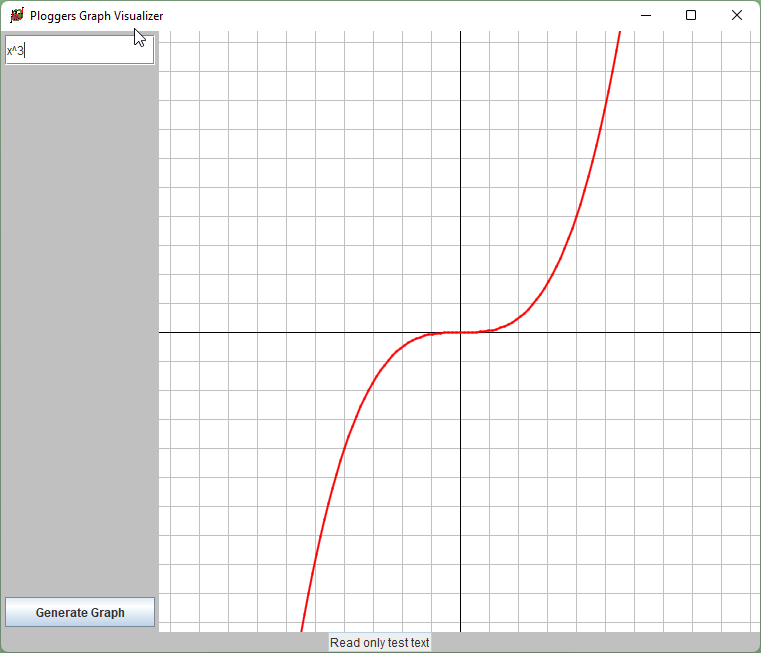
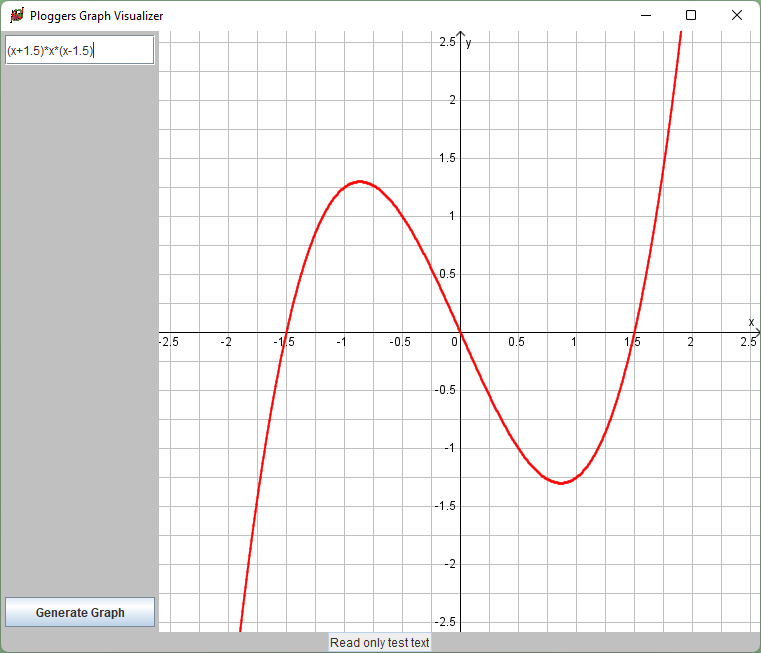
implemented axis labels

diff --git a/src/de/aop/plotter/Plot.java b/src/de/aop/plotter/Plot.java
@@ -3,6 +3,7 @@ package de.aop.plotter;
 import java.awt.BasicStroke;
 import java.awt.Color;
 import java.awt.Dimension;
+import java.awt.FontMetrics;
 import java.awt.Graphics;
 import java.awt.Graphics2D;
 import java.awt.Point;
@@ -17,19 +18,22 @@ import de.aop.parser.Parser;
 
 public class Plot extends JPanel
 {
-	private static final int X_SCALE_MARKERS = 10; // Amount of markers going from middle to top and bottom each
-	private static final int Y_SCALE_MARKERS = 10; // Amount of markers going from middle to left and right each
+	private static final int X_SCALE_MARKERS_MIN = 10; // Minimum amount of markers going from middle to top and bottom each
+	private static final int Y_SCALE_MARKERS_MIN = 10; // Minimum amount of markers going from middle to left and right each
+	private int xScaleMarkers = 0; // actual number of scale markers
+	private int yScaleMarkers = 0; // actual number of scale markers
 	private Parser data;
 	private int markerGap;
 	private Coordinate middle;
 
-	double scale = 2; // probably only visual :D
+	double scale = 4; // probably only visual :D
 	
 	/**
 	 * 
 	 */
 	public Plot()
 	{
+		getLabel(2);
 		// ToDo, Roberts dateityp entgegenehmen, oder in anderer Klasse die wichtigen Punkte berechnen
 		// Klasse dafür wird vermutlich Graph, in der sollen dann die Wichtigen Punkte und der Parse abgelegt werden.
 	}	
@@ -47,6 +51,8 @@ public class Plot extends JPanel
 		Graphics2D g2 = (Graphics2D)g;
 	    g2.setRenderingHint(RenderingHints.KEY_ANTIALIASING, RenderingHints.VALUE_ANTIALIAS_ON);
 	    
+	    
+	    
 	    // Sets x and yMiddle to usable ints
 	    calcCanvasMiddle();
 	    
@@ -57,16 +63,19 @@ public class Plot extends JPanel
 	    drawSecondaryLines(g2);
 	    
 	    // Draw x- and y-axis 
-	    g2.setColor(Color.black);
-	    g2.drawLine(middle.xAsInt(), 0, middle.xAsInt(), getHeight());
-	    g2.drawLine(0, middle.yAsInt(), getWidth(), middle.yAsInt());
+	    drawAxis(g2);
+	    
+	    // Draw numbers on x- and y-axis
+	    drawPlotNumbering(g2);
+	    
 	    
 	    if (data != null) {
 	    	drawFunction(g2);
 	    }
 	    
-	    // TODO Anhand der Extrempunkte usw. feststellen welcher Teil des Graphen überhaupt interessant ist.
 	    
+	    // TODO Anhand der Extrempunkte usw. feststellen welcher Teil des Graphen überhaupt interessant ist.
+	    //System.out.println("Result: "+getLabel(-1.4123));
 	}
     
 	
@@ -119,8 +128,8 @@ public class Plot extends JPanel
 		int yGap = 0;
 
 		// Calculate biggest possible gap between each line
-		xGap = calculateGap(xAvailableSpace, X_SCALE_MARKERS);
-		yGap = calculateGap(yAvailableSpace, Y_SCALE_MARKERS);
+		xGap = calculateGap(xAvailableSpace, X_SCALE_MARKERS_MIN);
+		yGap = calculateGap(yAvailableSpace, Y_SCALE_MARKERS_MIN);
 		
 		this.markerGap = Math.min(xGap, yGap);
 	}
@@ -158,6 +167,7 @@ public class Plot extends JPanel
 		{
 			g.drawLine(0, currentPosition+this.markerGap, getWidth(), currentPosition+this.markerGap);
 			currentPosition += this.markerGap;
+			this.yScaleMarkers++;
 			// DEBUG System.out.println("CurrentPosition y->MAX: "+currentPosition+", "+this.markerGap);			
 		}
 		
@@ -179,6 +189,7 @@ public class Plot extends JPanel
 		{
 			g.drawLine(currentPosition+this.markerGap, 0, currentPosition+this.markerGap, getHeight());
 			currentPosition += this.markerGap;
+			this.xScaleMarkers++;
 			// DEBUG System.out.println("CurrentPosition x->MAX: "+currentPosition+", "+this.markerGap);			
 		}
 		
@@ -191,6 +202,29 @@ public class Plot extends JPanel
 			// DEBUG System.out.println("CurrentPosition x->0: "+currentPosition+", "+this.markerGap);			
 		}
 		
+	}
+	
+	/**
+	 * Adds axis labels to Graph
+	 * @param graphics object to draw on
+	 */
+	private void drawAxis(Graphics2D g)
+	{
+		FontMetrics metrics = g.getFontMetrics();
+		
+		// Just drawing black lines
+		g.setColor(Color.black);
+	    g.drawLine(middle.xAsInt(), 0, middle.xAsInt(), getHeight());
+	    g.drawLine(0, middle.yAsInt(), getWidth(), middle.yAsInt());
+	    
+	    // Draw Arrows and x,y
+	    g.drawString("x", getWidth()-metrics.stringWidth("x")-6, middle.yAsInt()-6);
+	    g.drawLine(getWidth(), middle.yAsInt(), getWidth()-4, middle.yAsInt()-4);
+	    g.drawLine(getWidth(), middle.yAsInt(), getWidth()-4, middle.yAsInt()+4);
+	    
+	    g.drawString("y", middle.xAsInt()+6, metrics.getHeight());
+	    g.drawLine(middle.xAsInt(), 0, middle.xAsInt()+4, 4);
+	    g.drawLine(middle.xAsInt(), 0, middle.xAsInt()-4, 4);
 	}
 	
 	
@@ -211,8 +245,8 @@ public class Plot extends JPanel
 	{
 		Coordinate result = new Coordinate(0,0);
 		
-		result.x = (x - this.middle.x) / this.markerGap;
-		result.y = (y - this.middle.y) / this.markerGap * (-1);
+		result.x = (x - this.middle.x) / (this.markerGap * scale);
+		result.y = (y - this.middle.y) / (this.markerGap * scale) * (-1);
 		
 		return result;
 	}
@@ -254,6 +288,107 @@ public class Plot extends JPanel
 			xPixel++;
 		}
 	}
+	
+	/**
+	 * Draws numbers on x- and y-axis for scale
+	 * More details about the mesurement: https://docs.oracle.com/javase/tutorial/2d/text/measuringtext.html
+	 * @param the plot graphics object
+	 */
+	private void drawPlotNumbering(Graphics2D g)
+	{
+		// object to get info about strings, other variables
+		FontMetrics metrics = g.getFontMetrics();
+		String label = "";
+		int offset = -2;
+		int offset2 = 0; // used for all but '0'
+		int xPos = 0;
+		int yPos = 0;
+		
+		// place 0 at origin
+		label = "0";
+		xPos = (middle.xAsInt()-metrics.stringWidth("0"));
+		yPos = (middle.yAsInt()+metrics.getHeight());
+		g.drawString(label, xPos+offset, yPos+offset);
+		
+		// draw the rest of the numbers
+		// x-axis
+		for (int i=2; i < xScaleMarkers/2 - 1; i+=2)
+		{
+			// Positive numbers
+			xPos = (i * this.markerGap) + middle.xAsInt();
+			label = getLabel(pixelToFunction(xPos,0).x);
+			offset2 = -(metrics.stringWidth(label)/2);
+			g.drawString(label, xPos+offset+offset2, yPos+offset);
+			
+			// Negative numbers
+			xPos = -(i * this.markerGap) + middle.xAsInt();
+			label = getLabel(pixelToFunction(xPos,0).x);
+			offset2 = -(metrics.stringWidth(label)/2);
+			g.drawString(label, xPos+offset+offset2, yPos+offset);
+		}
+		
+		//y-axis
+		xPos = this.middle.xAsInt();
+		offset = -4;
+		for (int i=2; i < yScaleMarkers/2 - 1; i+=2)
+		{
+			// Positive numbers
+			yPos = (i * this.markerGap) + middle.yAsInt();
+			label = getLabel(pixelToFunction(0,yPos).y);
+			offset2 = -(metrics.stringWidth(label));
+			g.drawString(label, xPos+offset+offset2, yPos-offset);
+			
+			// Negative numbers
+			yPos = -(i * this.markerGap) + middle.yAsInt();
+			label = getLabel(pixelToFunction(0,yPos).y);
+			offset2 = -(metrics.stringWidth(label));
+			g.drawString(label, xPos+offset+offset2, yPos-offset);
+		}
+		
+	}
+	
+	/**
+	 * Takes Double and returns fitting label for x/y-axis
+	 * @param number
+	 * @return Number String as int or double with two decimals
+	 */
+	private String getLabel(double number)
+	{
+		String str_number = Double.toString(number);
+		System.out.println(str_number);
+		String[] str_part = str_number.split("\\.");
+		boolean isNegative = false;
+		
+		if (str_part[0].charAt(0) == '-')
+		{
+			isNegative = true;
+			str_part[0] = str_part[0].substring(1);
+		}
+		
+		// Check if first decimal is not 0
+		if (str_part[1].charAt(0) == '0')
+		{
+			str_number = str_part[0];
+		}
+		else
+		{
+			str_number = str_part[0]+"."+str_part[1].substring(0,1);
+		}
+	
+				
+		System.out.println("Label result: "+str_number);
+		
+		// Re-Add '-' if removed earlier
+		if (isNegative)
+		{
+			return "-"+str_number;
+		}
+		else
+		{
+			return str_number;
+		}
+	}
+	
 	
 	
 	// test function
